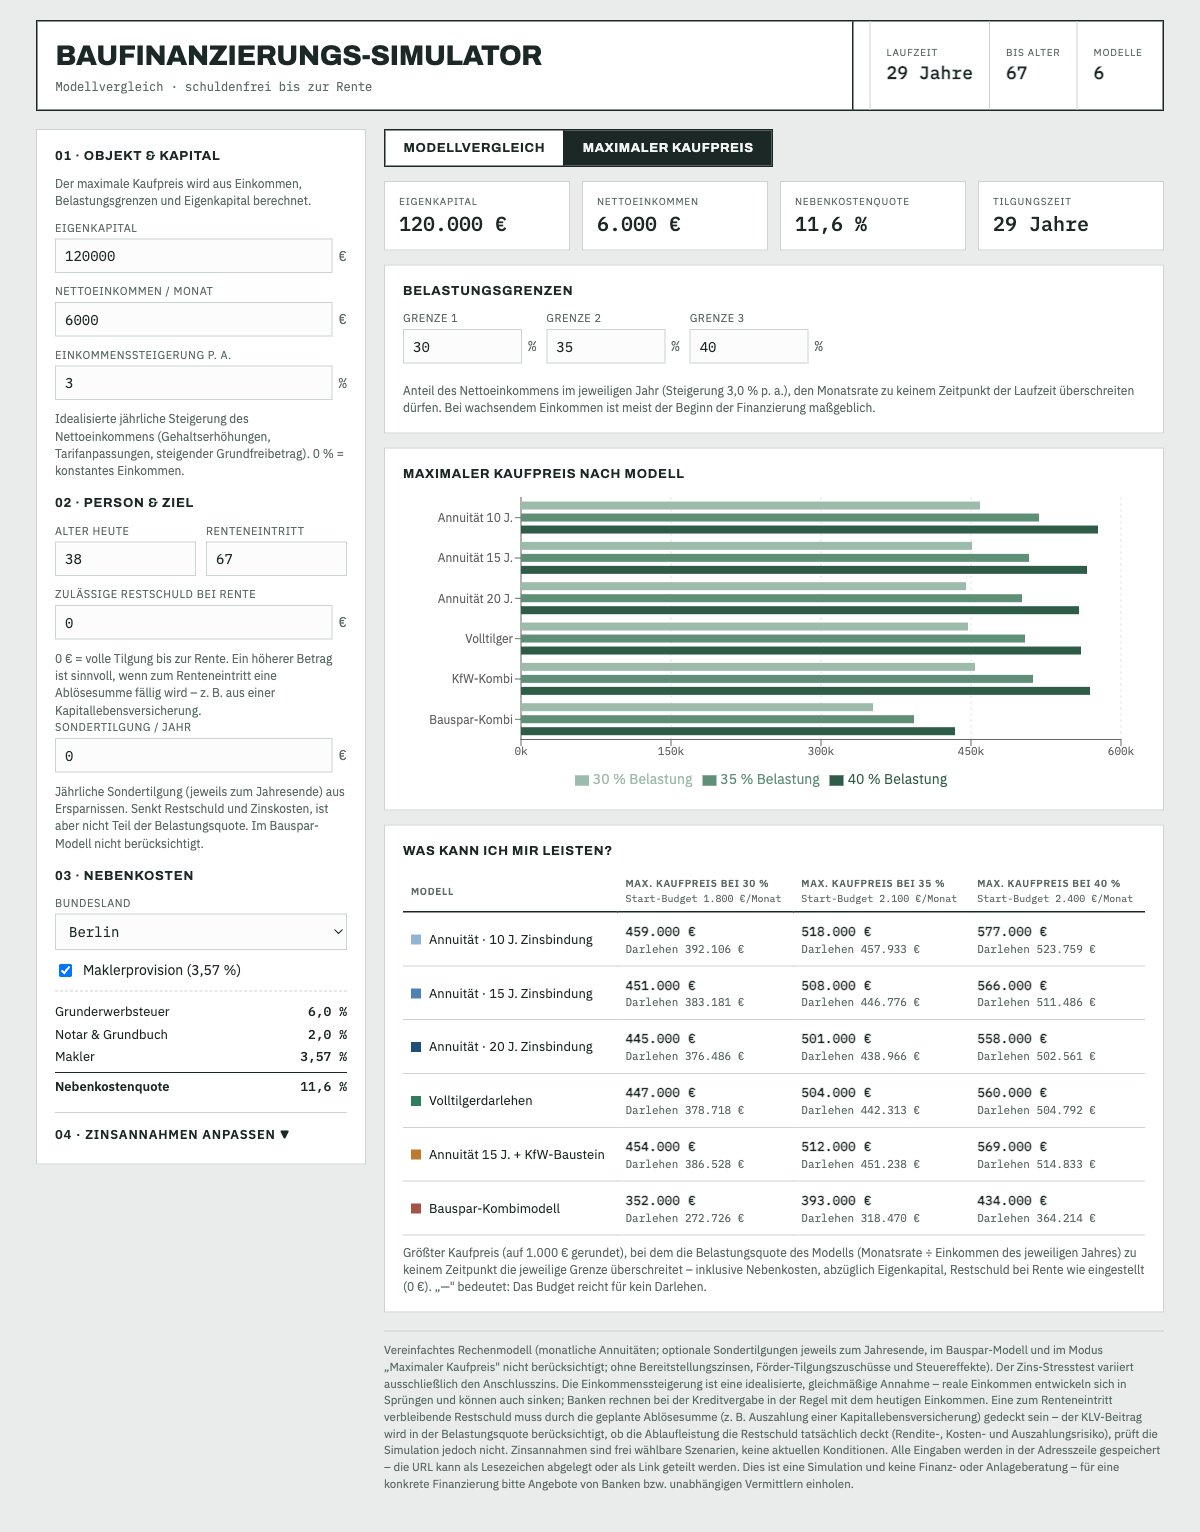
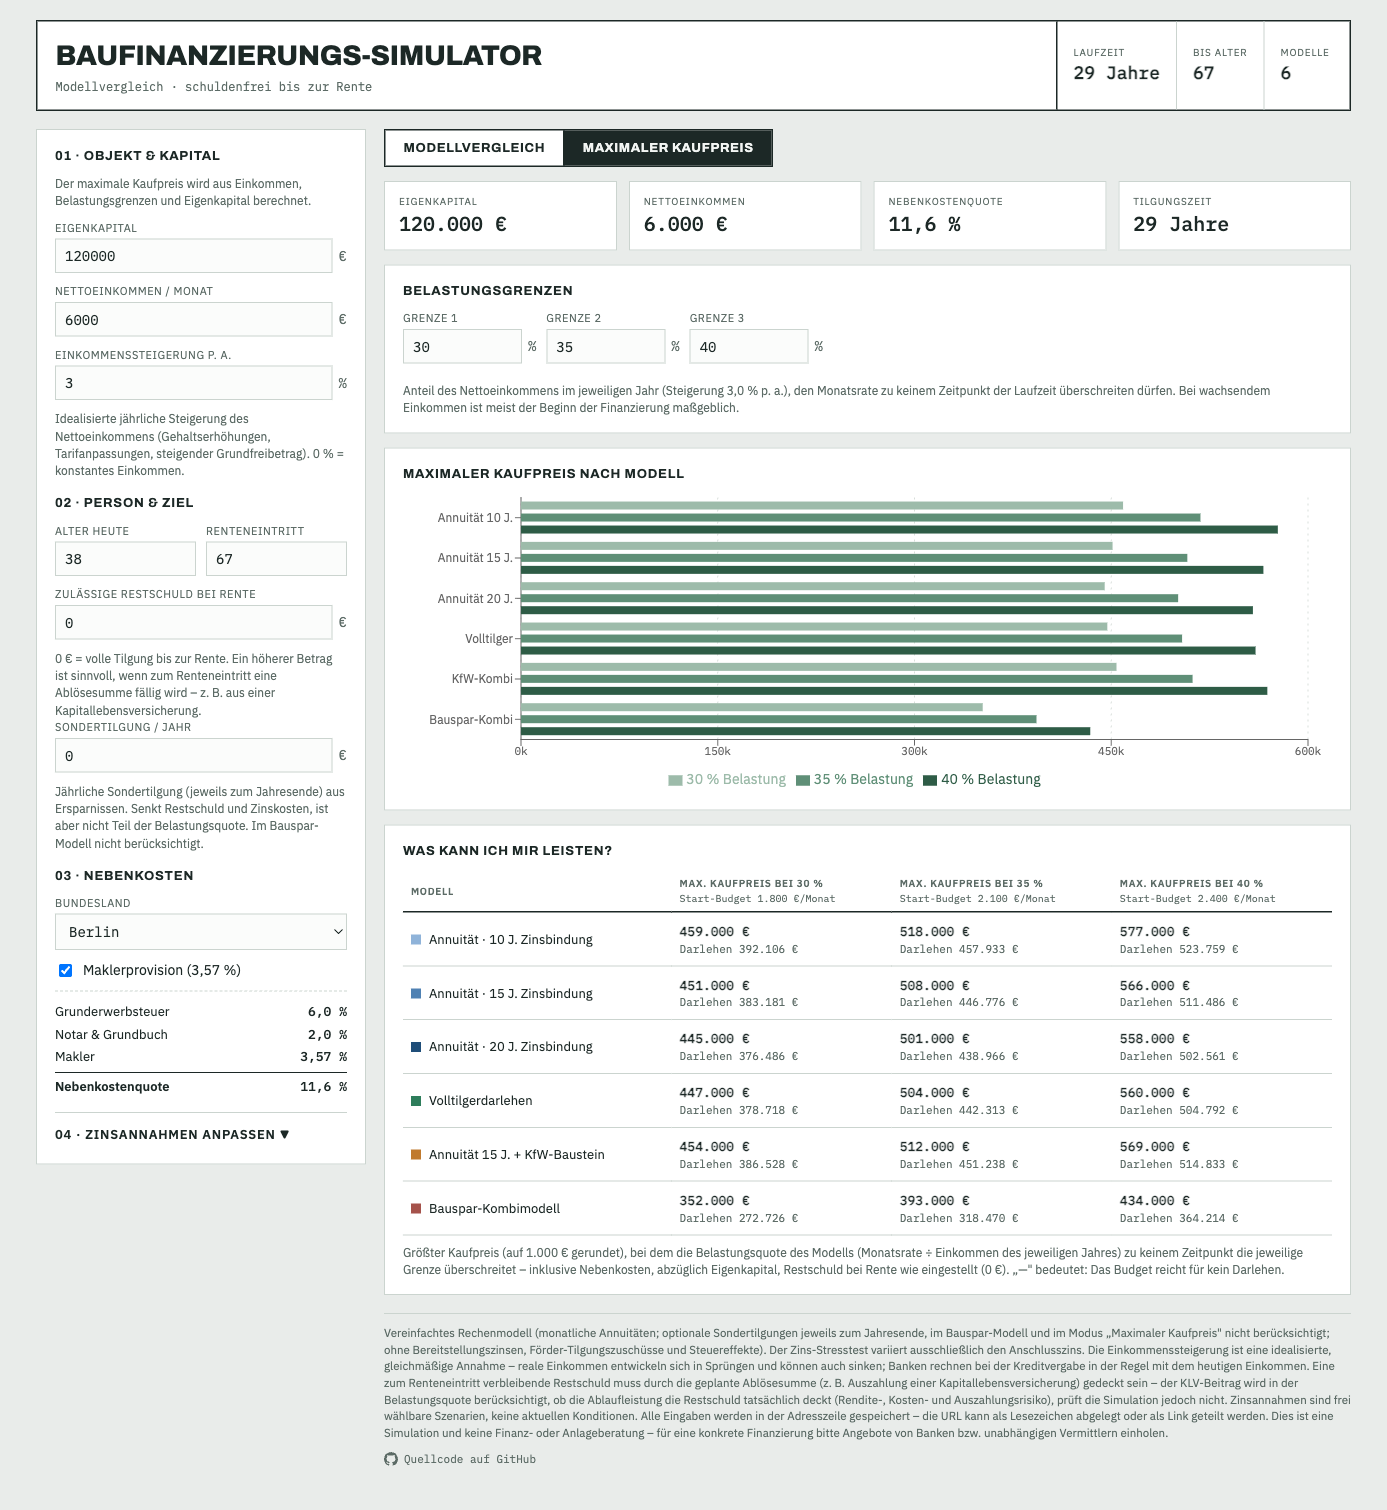
feat: Header-Glitch, GitHub-Link & aktualisierte README-Screenshots (#12)
1. Header-Titelblock: doppelte Trennlinie (gap + border-right des Titels +
   border-left der ersten Meta-Zelle) entfernt – jetzt eine saubere
   Trennung zwischen Titel und Kennzahlen.
2. Dezenter GitHub-Link (Octocat-Icon) im Footer, verweist auf das Repo.
3. Dritter README-Screenshot: Tilgungschart (Zins-/Tilgungsanteil je Jahr).
4. Beide bestehenden Screenshots neu aufgenommen mit ausgeklappter
   Sektion „04 · Zinsannahmen"; Footer-Doku um Tilgungsplan/Tilgungschart
   ergänzt.

Section „04 · Zinsannahmen" wieder eingeklappt – hält den Screenshot
vertikal kompakter und zeigt zugleich, dass die Sektion einklappbar ist
(Kontrast zum Modellvergleich-Screenshot mit ausgeklappter Sektion).

diff --git a/src/components/Footer.jsx b/src/components/Footer.jsx
@@ -2,26 +2,34 @@
 /*  Footer: Annahmen, Vereinfachungen, Disclaimer                      */
 /* ------------------------------------------------------------------ */
 
-import React from "react";
+const REPO_URL = "https://github.com/saigyo/baufinanzierungs-simulator";
 
 export default function Footer() {
   return (
     <footer className="bf-footer">
-      Vereinfachtes Rechenmodell (monatliche Annuitäten; optionale Sondertilgungen jeweils zum
-      Jahresende, im Bauspar-Modell und im Modus „Maximaler Kaufpreis" nicht berücksichtigt; ohne
-      Bereitstellungszinsen, Förder-Tilgungszuschüsse und Steuereffekte). Der Zins-Stresstest
-      variiert ausschließlich den Anschlusszins. Die Einkommenssteigerung ist eine idealisierte,
-      gleichmäßige Annahme – reale Einkommen entwickeln sich in Sprüngen und können auch sinken;
-      Banken rechnen bei der Kreditvergabe in der Regel mit dem heutigen Einkommen.
-      Eine zum Renteneintritt verbleibende Restschuld
-      muss durch die geplante Ablösesumme (z. B. Auszahlung einer Kapitallebensversicherung) gedeckt
-      sein – der KLV-Beitrag wird in der Belastungsquote berücksichtigt, ob die Ablaufleistung die
-      Restschuld tatsächlich deckt (Rendite-, Kosten- und Auszahlungsrisiko), prüft die Simulation
-      jedoch nicht. Zinsannahmen sind frei wählbare Szenarien, keine
-      aktuellen Konditionen. Alle Eingaben werden in der Adresszeile gespeichert – die URL kann
-      als Lesezeichen abgelegt oder als Link geteilt werden. Dies ist eine Simulation und keine
-      Finanz- oder Anlageberatung – für eine konkrete Finanzierung bitte Angebote von Banken
-      bzw. unabhängigen Vermittlern einholen.
+      <p className="bf-footer-text">
+        Vereinfachtes Rechenmodell (monatliche Annuitäten; optionale Sondertilgungen jeweils zum
+        Jahresende, im Bauspar-Modell und im Modus „Maximaler Kaufpreis" nicht berücksichtigt; ohne
+        Bereitstellungszinsen, Förder-Tilgungszuschüsse und Steuereffekte). Der Zins-Stresstest
+        variiert ausschließlich den Anschlusszins. Die Einkommenssteigerung ist eine idealisierte,
+        gleichmäßige Annahme – reale Einkommen entwickeln sich in Sprüngen und können auch sinken;
+        Banken rechnen bei der Kreditvergabe in der Regel mit dem heutigen Einkommen.
+        Eine zum Renteneintritt verbleibende Restschuld
+        muss durch die geplante Ablösesumme (z. B. Auszahlung einer Kapitallebensversicherung) gedeckt
+        sein – der KLV-Beitrag wird in der Belastungsquote berücksichtigt, ob die Ablaufleistung die
+        Restschuld tatsächlich deckt (Rendite-, Kosten- und Auszahlungsrisiko), prüft die Simulation
+        jedoch nicht. Zinsannahmen sind frei wählbare Szenarien, keine
+        aktuellen Konditionen. Alle Eingaben werden in der Adresszeile gespeichert – die URL kann
+        als Lesezeichen abgelegt oder als Link geteilt werden. Dies ist eine Simulation und keine
+        Finanz- oder Anlageberatung – für eine konkrete Finanzierung bitte Angebote von Banken
+        bzw. unabhängigen Vermittlern einholen.
+      </p>
+      <a className="bf-gh" href={REPO_URL} target="_blank" rel="noopener noreferrer">
+        <svg viewBox="0 0 16 16" width="14" height="14" aria-hidden="true" focusable="false">
+          <path fill="currentColor" fillRule="evenodd" d="M8 0C3.58 0 0 3.58 0 8c0 3.54 2.29 6.53 5.47 7.59.4.07.55-.17.55-.38 0-.19-.01-.82-.01-1.49-2.01.37-2.53-.49-2.69-.94-.09-.23-.48-.94-.82-1.13-.28-.15-.68-.52-.01-.53.63-.01 1.08.58 1.23.82.72 1.21 1.87.87 2.33.66.07-.52.28-.87.51-1.07-1.78-.2-3.64-.89-3.64-3.95 0-.87.31-1.59.82-2.15-.08-.2-.36-1.02.08-2.12 0 0 .67-.21 2.2.82a7.65 7.65 0 012-.27c.68 0 1.36.09 2 .27 1.53-1.04 2.2-.82 2.2-.82.44 1.1.16 1.92.08 2.12.51.56.82 1.27.82 2.15 0 3.07-1.87 3.75-3.65 3.95.29.25.54.73.54 1.48 0 1.07-.01 1.93-.01 2.2 0 .21.15.46.55.38A8.01 8.01 0 0016 8c0-4.42-3.58-8-8-8z"/>
+        </svg>
+        Quellcode auf GitHub
+      </a>
     </footer>
   );
 }

diff --git a/src/styles.js b/src/styles.js
@@ -16,13 +16,14 @@ export const CSS = `
 .bf-root h1,.bf-root h2,.bf-root h3{font-family:'Archivo',sans-serif;margin:0}
 
 /* Schriftfeld */
-.bf-titleblock{display:flex;justify-content:space-between;align-items:stretch;gap:16px;
+.bf-titleblock{display:flex;justify-content:space-between;align-items:stretch;
   border:1.5px solid var(--ink);background:var(--panel);margin-bottom:18px}
 .bf-tb-main{padding:14px 18px;border-right:1.5px solid var(--ink);flex:1}
 .bf-tb-main h1{font-size:clamp(20px,3vw,28px);font-weight:800;letter-spacing:-0.01em;text-transform:uppercase}
 .bf-tb-sub{margin:2px 0 0;color:var(--muted);font-family:'IBM Plex Mono',monospace;font-size:12px}
 .bf-tb-meta{display:flex}
 .bf-tb-meta>div{padding:10px 16px;border-left:1px solid var(--line);display:flex;flex-direction:column;justify-content:center;min-width:86px}
+.bf-tb-meta>div:first-child{border-left:none}
 .bf-tb-meta span{font-size:10px;text-transform:uppercase;letter-spacing:.08em;color:var(--muted)}
 .bf-tb-meta strong{font-family:'IBM Plex Mono',monospace;font-size:18px}
 
@@ -103,6 +104,11 @@ export const CSS = `
 .bf-cell-sub{display:block;font-size:11px;color:var(--muted)}
 
 .bf-footer{margin-top:18px;font-size:11.5px;color:var(--muted);border-top:1px solid var(--line);padding-top:10px}
+.bf-footer-text{margin:0}
+.bf-gh{display:inline-flex;align-items:center;gap:6px;margin-top:10px;color:var(--muted);text-decoration:none;font-family:'IBM Plex Mono',monospace;font-size:11px}
+.bf-gh svg{display:block}
+.bf-gh:hover{color:var(--accent)}
+.bf-gh:focus-visible{outline:2px solid var(--accent);outline-offset:2px;color:var(--accent)}
 @media (prefers-reduced-motion: no-preference){.bf-panel,.bf-best,.bf-kpi{transition:border-color .15s}}
 .bf-row-actions{display:flex;gap:6px;justify-content:flex-end}
 .bf-modal-backdrop{position:fixed;inset:0;background:rgba(28,40,38,.45);display:flex;align-items:center;justify-content:center;padding:20px;z-index:50}

diff --git a/README.md b/README.md
@@ -15,6 +15,10 @@ Kapitallebensversicherung).
 
 *Umkehr-Modus „Maximaler Kaufpreis" – höchster tragbarer Kaufpreis je Modell und Belastungsgrenze.*
 
+![Screenshot: Tilgungsplan je Modell – Zins- und Tilgungsanteil pro Jahr](docs/screenshot-tilgungsplan.png)
+
+*Tilgungsplan je Modell – Zins- und Tilgungsanteil pro Jahr als Chart oder Tabelle (u. a. für die steuerliche Betrachtung des absetzbaren Zinsanteils).*
+
 ## Features
 
 - **Sechs Modelle im Vergleich:** Annuitätendarlehen (10/15/20 J. Zinsbindung mit
@@ -27,8 +31,10 @@ Kapitallebensversicherung).
 - **Sondertilgung** (€/Jahr) – senkt Restschuld, Zinskosten und Folge-Raten
 - **Zins-Stresstest** – Aufschlag auf den Anschlusszins, Spitzen-Belastung als eigene Spalte
 - **Umkehr-Modus:** maximaler Kaufpreis je Modell für frei wählbare Belastungsgrenzen
+- **Tilgungsplan je Modell:** Zins-/Tilgungsanteil pro Jahr als Chart oder Tabelle
+  (relevant u. a. für den steuerlich absetzbaren Zinsanteil bei Vermietung)
 - **Teilbare Links:** alle Eingaben werden als URL-Parameter gespeichert
-- Charts: Restschuldverlauf, Belastungsquote über die Laufzeit, Max-Kaufpreis-Balken
+- Charts: Restschuldverlauf, Belastungsquote über die Laufzeit, Max-Kaufpreis-Balken, Tilgungschart
 
 ## Setup
 
